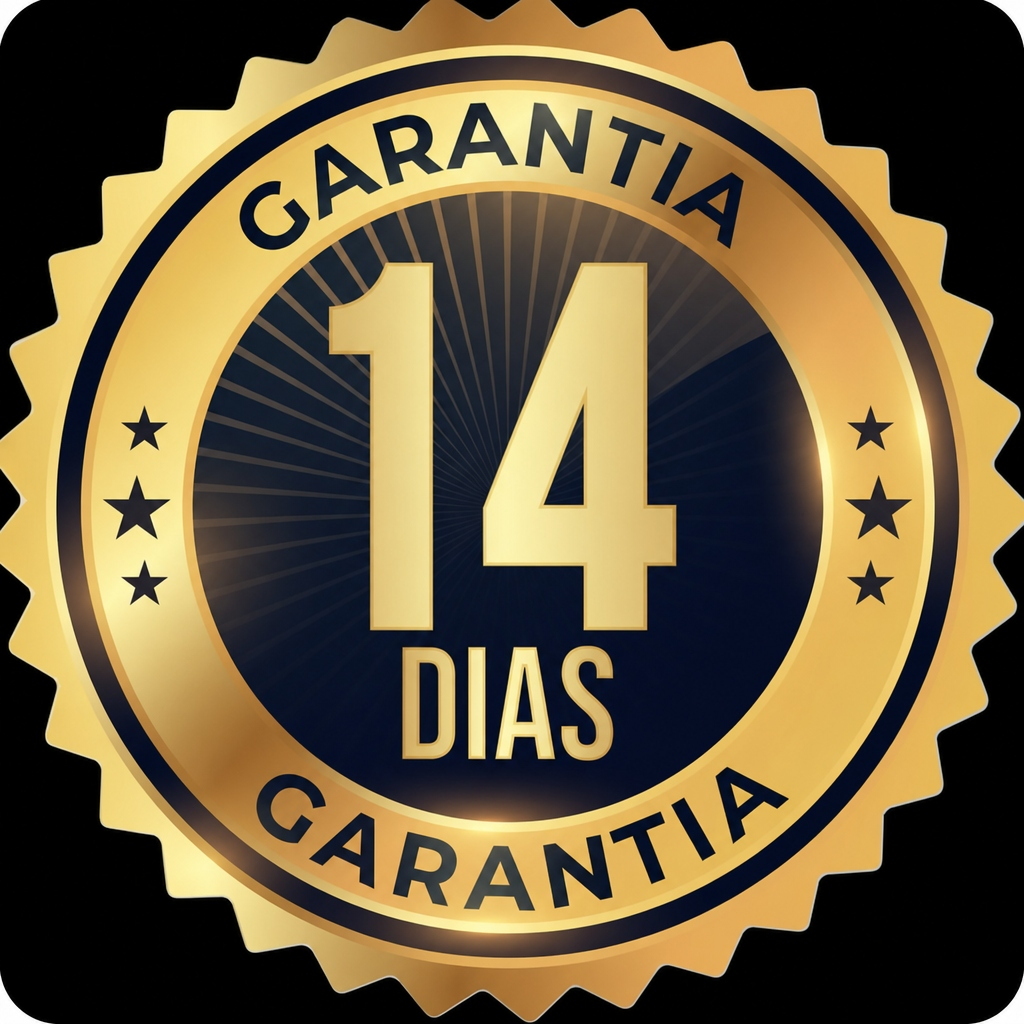
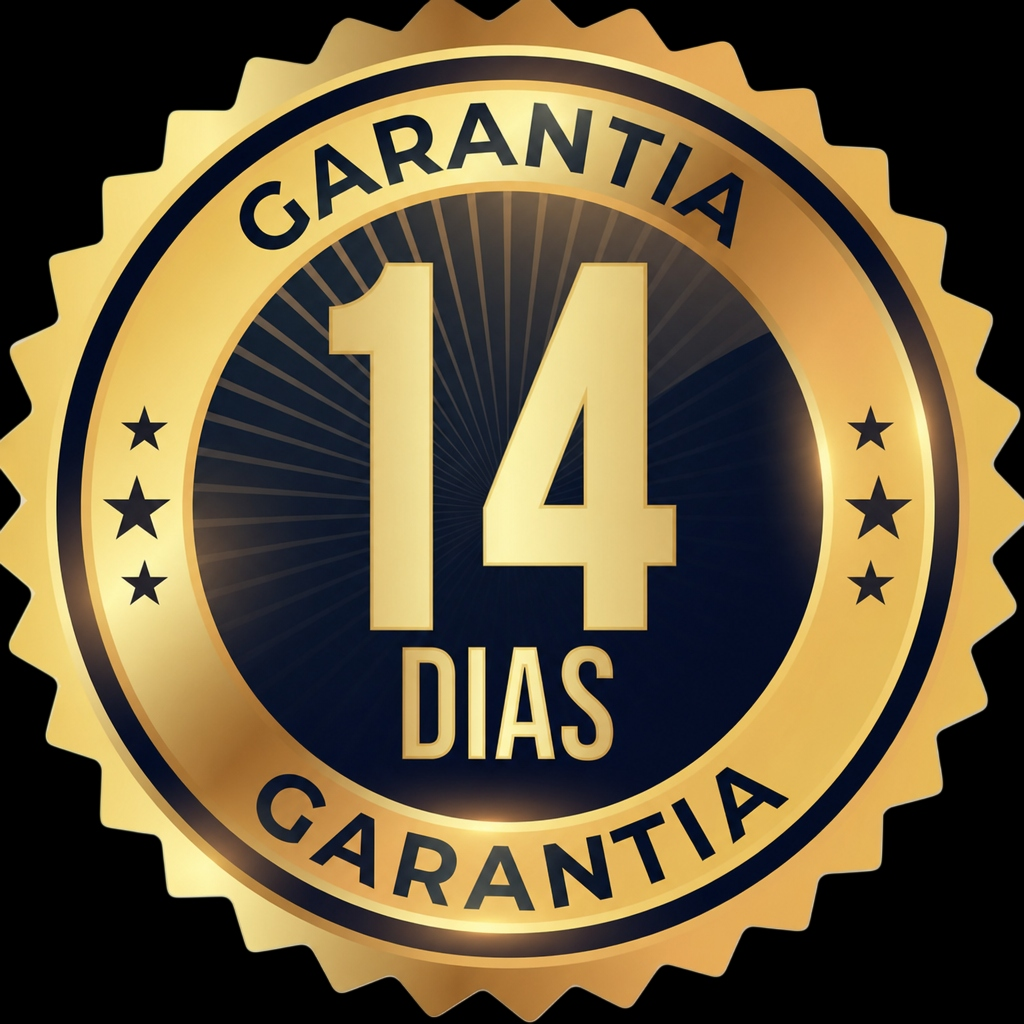
feat: atualiza preco para ,90 e substitui imagens de depoimento e garantia por novas versoes de alta qualidade

diff --git a/app.js b/app.js
@@ -961,7 +961,7 @@ function renderSalesScreen() {
       <div class="mt-8 rounded-2xl border-2 border-success p-5 bg-card">
         <div class="flex items-center justify-between gap-4">
           <div class="text-lg font-extrabold leading-tight text-left">Código Reconquista<br>Magnética</div>
-          <div class="rounded-xl bg-muted px-4 py-3 text-2xl font-extrabold text-success">$9,9</div>
+          <div class="rounded-xl bg-muted px-4 py-3 text-2xl font-extrabold text-success">$9,90</div>
         </div>
       </div>
       
